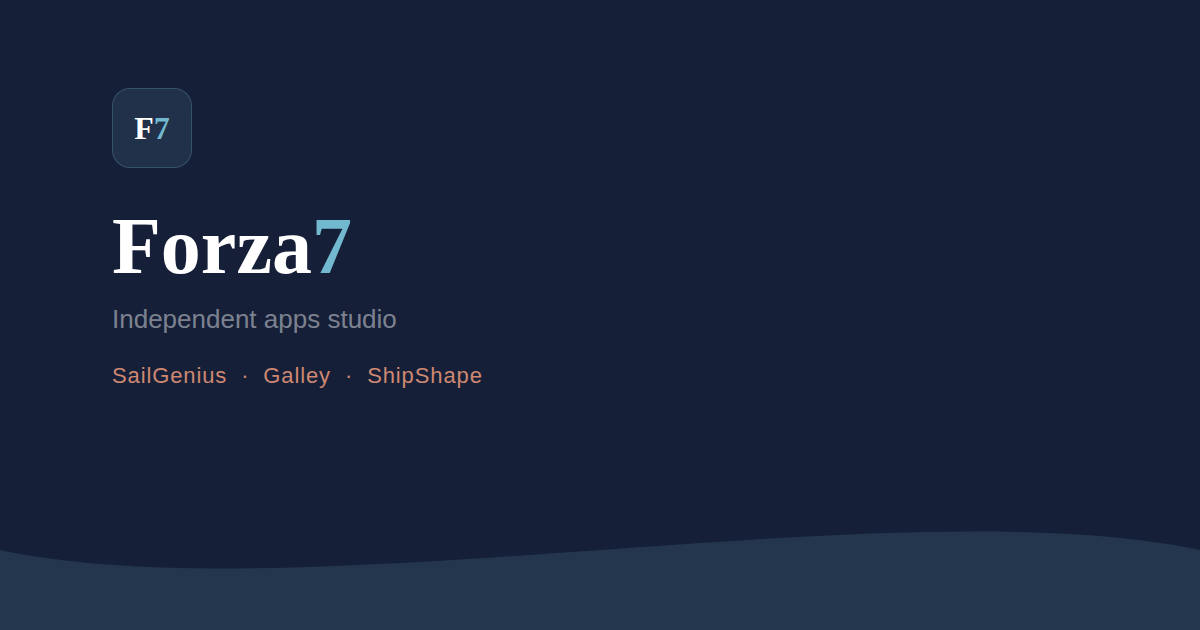
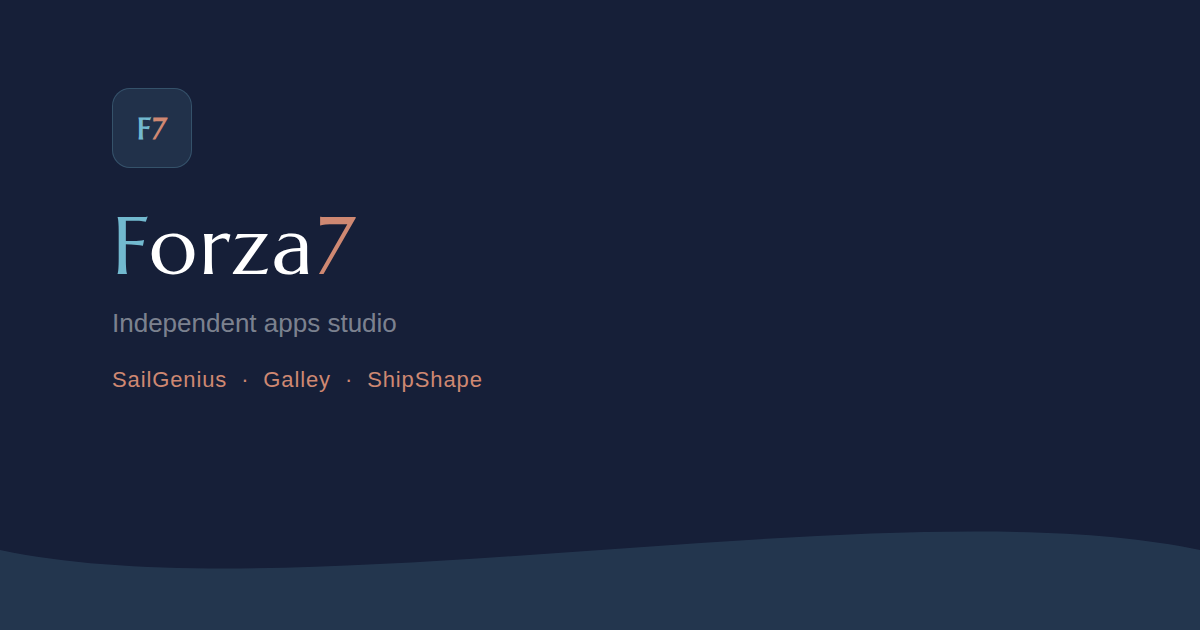
Update OG image with Marcellus font and brand colours

diff --git a/public/og-render.html b/public/og-render.html
@@ -40,19 +40,21 @@
       font-size: 30px;
       letter-spacing: 0.025em;
     }
-    .mark .f { color: #ffffff; }
-    .mark .seven { color: #72B9CF; }
+    .mark .f { color: #72B9CF; }
+    .mark .seven { color: #CF8872; }
 
     .title {
       font-family: 'Marcellus', serif;
-      font-weight: 700;
+      font-weight: 400;
       font-size: 80px;
       color: #ffffff;
       line-height: 1.05;
       margin-bottom: 20px;
       letter-spacing: 0.025em;
     }
-    .title .seven { color: #72B9CF; }
+    .title .f { color: #72B9CF; }
+    .title .orza { color: #ffffff; font-weight: 400; }
+    .title .seven { color: #CF8872; }
 
     .subtitle {
       font-size: 26px;
@@ -71,7 +73,7 @@
 <body>
   <div class="content">
     <div class="mark"><span class="f">F</span><span class="seven">7</span></div>
-    <div class="title">Forza<span class="seven">7</span></div>
+    <div class="title"><span class="f">F</span><span class="orza">orza</span><span class="seven">7</span></div>
     <div class="subtitle">Independent apps studio</div>
     <div class="apps">SailGenius &nbsp;·&nbsp; Galley &nbsp;·&nbsp; ShipShape</div>
   </div>
